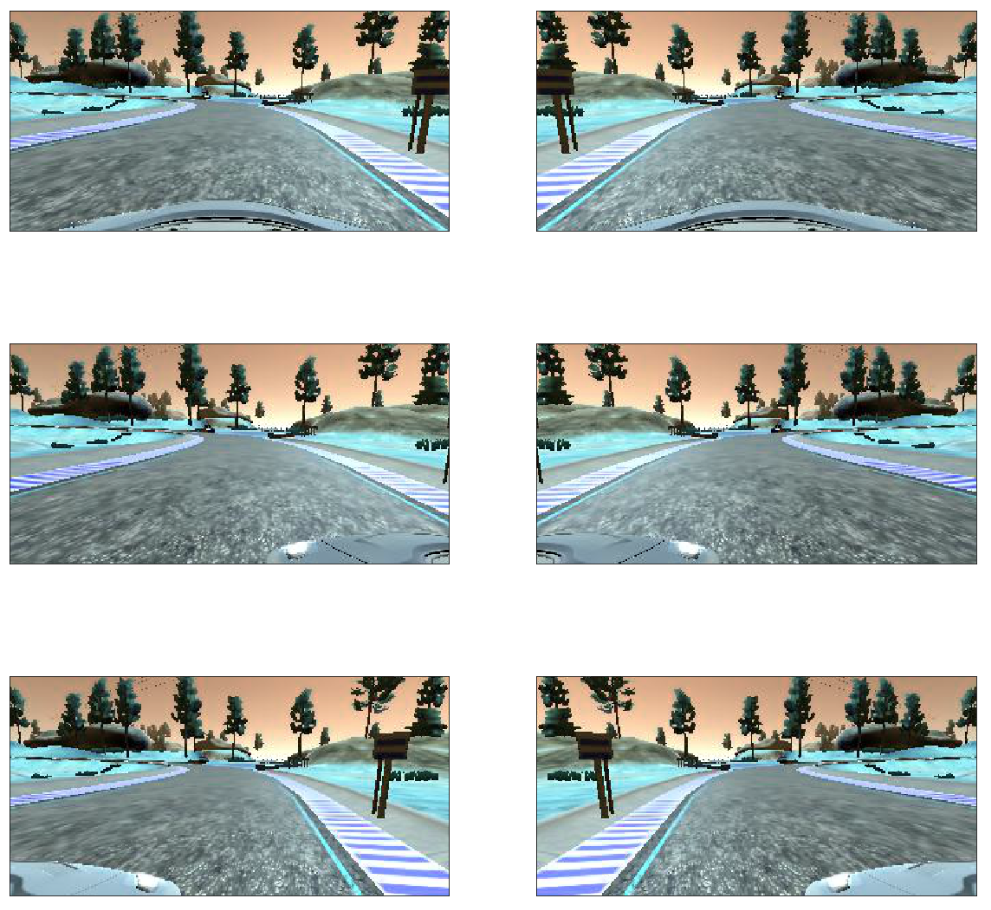
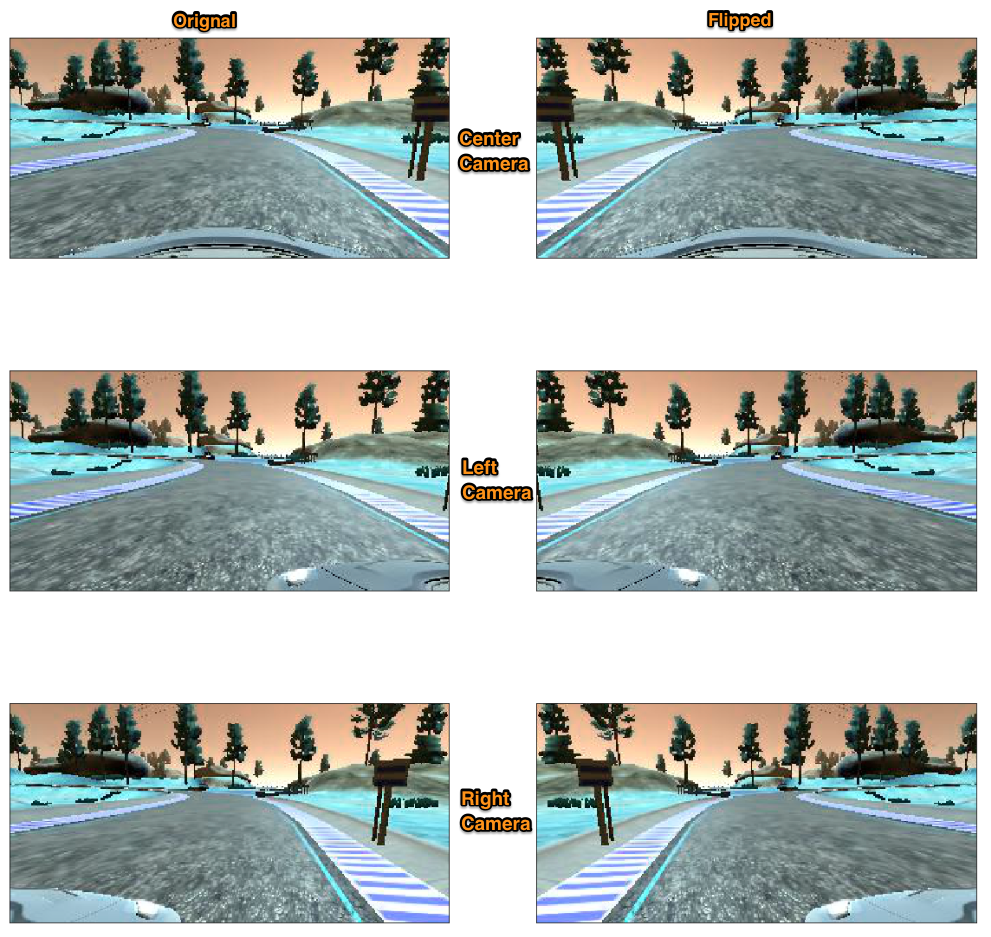
docs: add comments to images and correct final links

diff --git a/README.md b/README.md
@@ -32,20 +32,20 @@ The goals / steps of this project are the following:
 ##### 1. Submission includes all required files and can be used to run the simulator in autonomous mode
 
 My project includes the following files:
-* [model.py](./blob/master/model.py) containing the script to create and train the model
-* [drive.py](./blob/master/drive.py) for driving the car in autonomous mode
-* [model.h5](./blob/master/model.h5) containing a trained convolution neural network 
-* [writeup_report.md](./blob/master/writeup_report.md) (this file) summarizing the results
+* [model.py](./model.py) containing the script to create and train the model
+* [drive.py](./drive.py) for driving the car in autonomous mode
+* [model.h5](./model.h5) containing a trained convolution neural network 
+* [writeup_report.md](./writeup_report.md) (this file) summarizing the results
 
 ##### 2. Submission includes functional code
-Using the Udacity provided simulator and my [drive.py](./blob/master/drive.py) file, the car can be driven autonomously around the track by executing 
+Using the Udacity provided simulator and my [drive.py](./drive.py) file, the car can be driven autonomously around the track by executing 
 ```sh
 python drive.py model.h5
 ```
 
 ##### 3. Submission code is usable and readable
 
-The [model.py](./blob/master/model.py) file contains the code for training and saving the convolution neural network. The file shows the pipeline I used for training and validating the model, and it contains comments to explain how the code works.
+The [model.py](./model.py) file contains the code for training and saving the convolution neural network. The file shows the pipeline I used for training and validating the model, and it contains comments to explain how the code works.
 
 ### Model Architecture and Training Strategy
 

diff --git a/writeup_report.md b/writeup_report.md
@@ -32,20 +32,20 @@ The goals / steps of this project are the following:
 ##### 1. Submission includes all required files and can be used to run the simulator in autonomous mode
 
 My project includes the following files:
-* [model.py](./blob/master/model.py) containing the script to create and train the model
-* [drive.py](./blob/master/drive.py) for driving the car in autonomous mode
-* [model.h5](./blob/master/model.h5) containing a trained convolution neural network 
-* [writeup_report.md](./blob/master/writeup_report.md) (this file) summarizing the results
+* [model.py](./model.py) containing the script to create and train the model
+* [drive.py](./drive.py) for driving the car in autonomous mode
+* [model.h5](./model.h5) containing a trained convolution neural network 
+* [writeup_report.md](./writeup_report.md) (this file) summarizing the results
 
 ##### 2. Submission includes functional code
-Using the Udacity provided simulator and my [drive.py](./blob/master/drive.py) file, the car can be driven autonomously around the track by executing 
+Using the Udacity provided simulator and my [drive.py](./drive.py) file, the car can be driven autonomously around the track by executing 
 ```sh
 python drive.py model.h5
 ```
 
 ##### 3. Submission code is usable and readable
 
-The [model.py](./blob/master/model.py) file contains the code for training and saving the convolution neural network. The file shows the pipeline I used for training and validating the model, and it contains comments to explain how the code works.
+The [model.py](./model.py) file contains the code for training and saving the convolution neural network. The file shows the pipeline I used for training and validating the model, and it contains comments to explain how the code works.
 
 ### Model Architecture and Training Strategy
 
